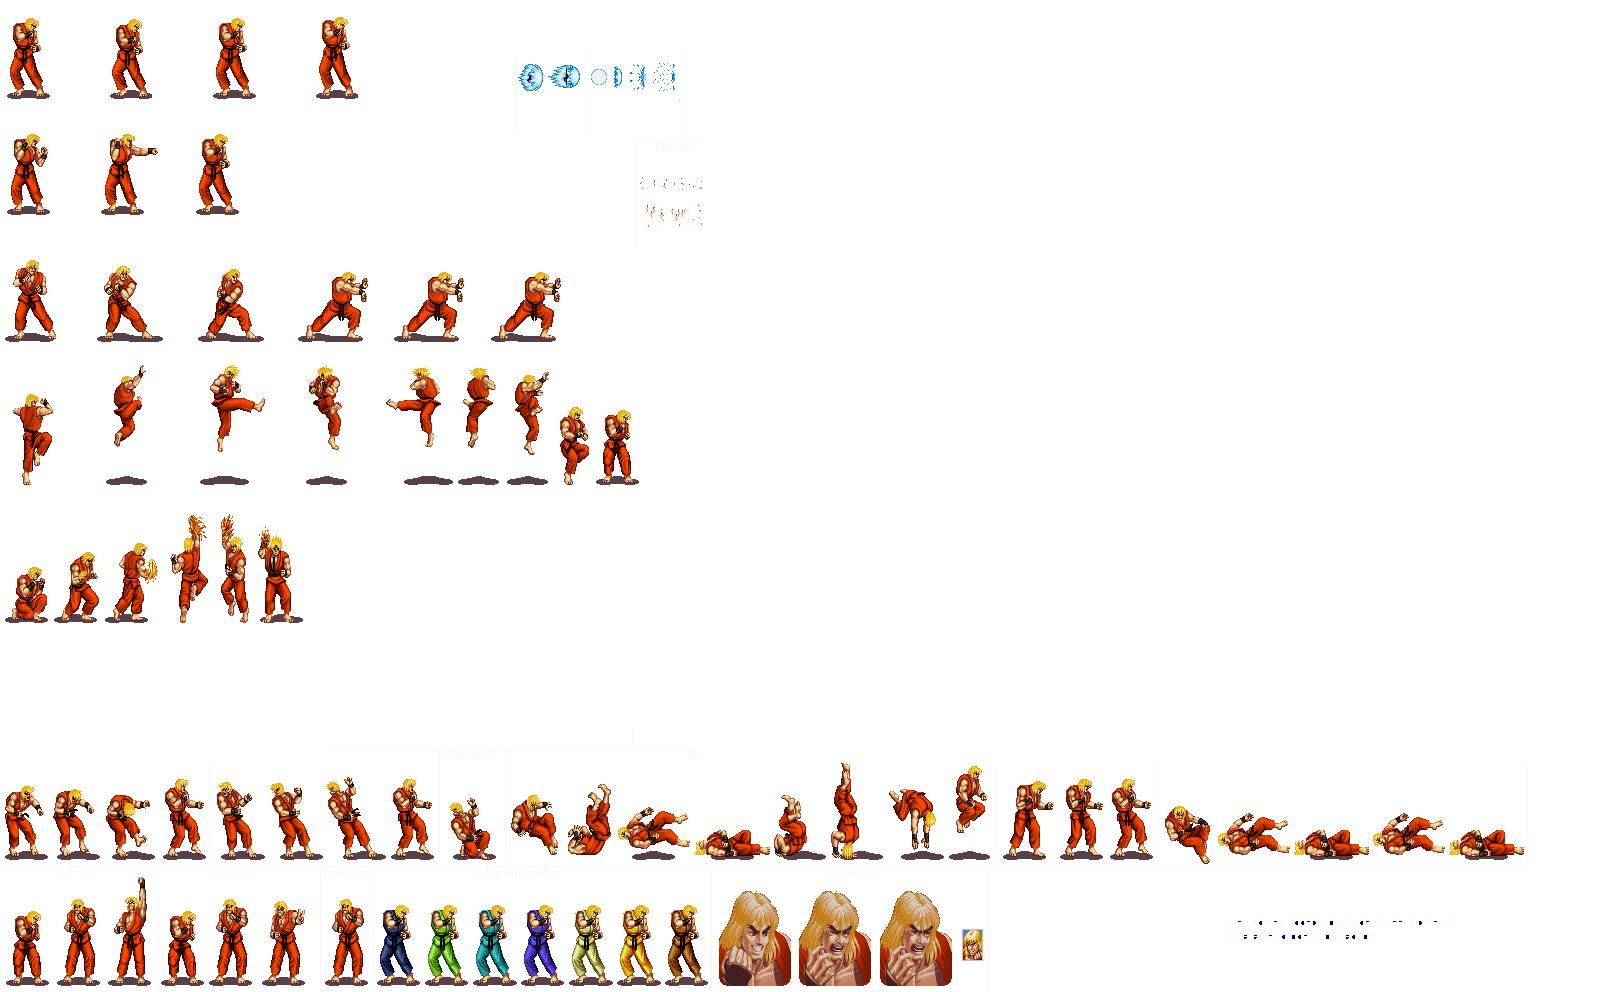
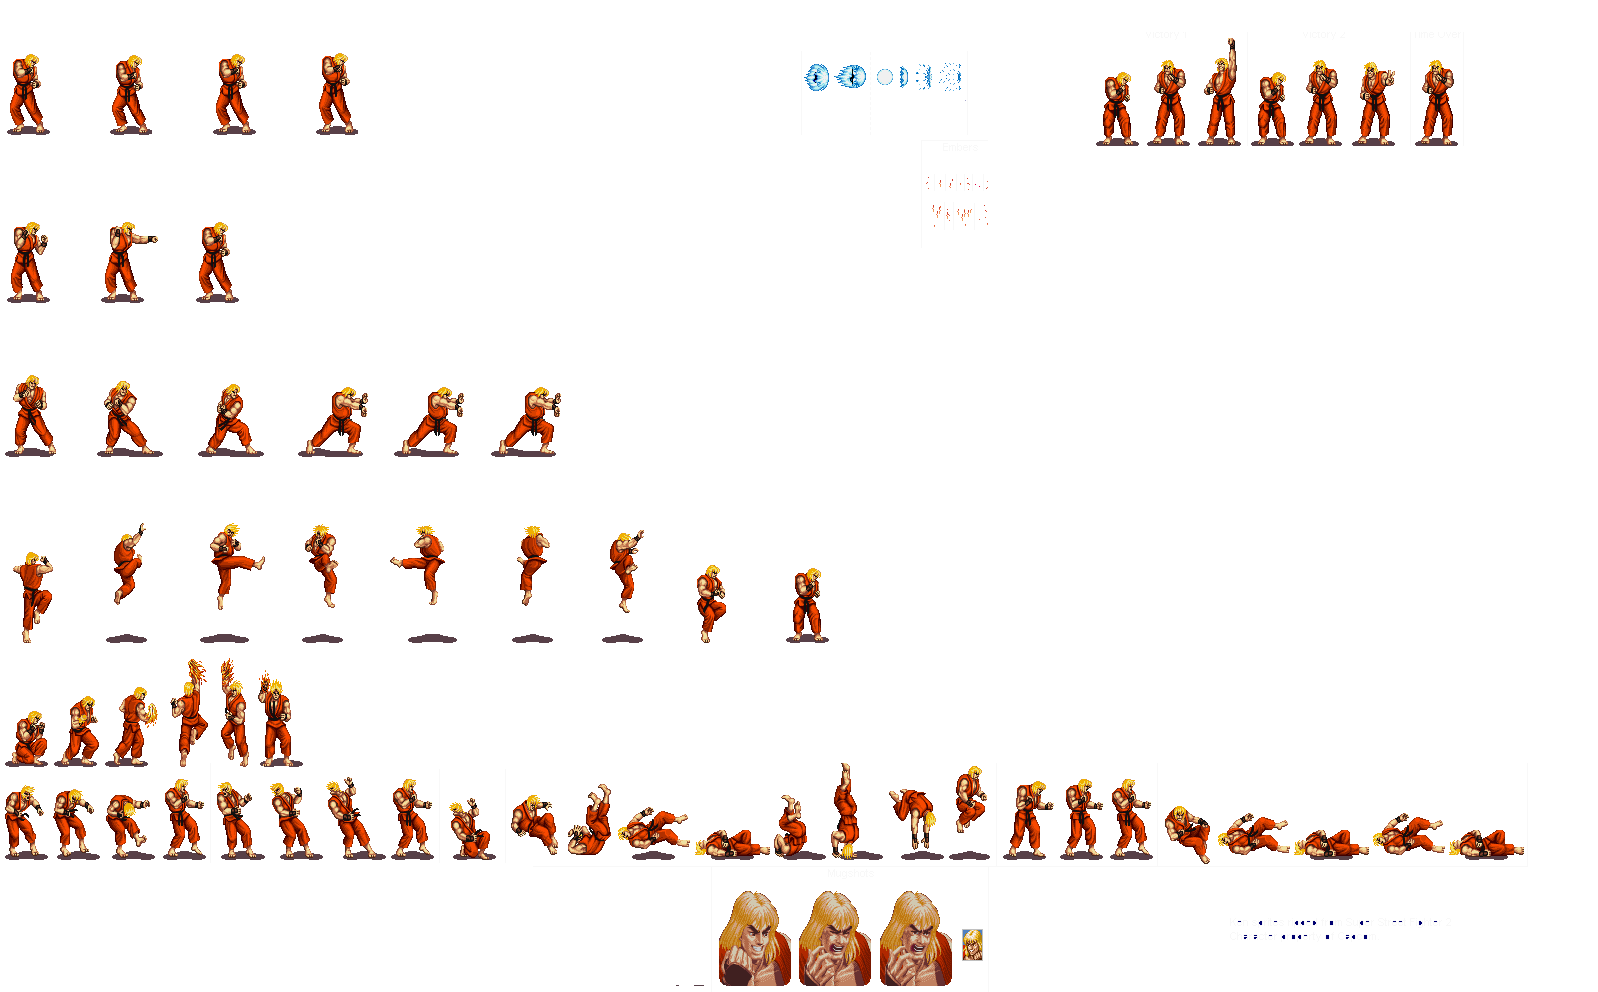
Now with a working senpukyaku!!!!!

diff --git a/assets/css/style.css b/assets/css/style.css
@@ -125,7 +125,8 @@ img {
 
 .ken { 
     width:95px; 
-    height:100px;
+    height:155px;
+    margin-top: -65px;
     background-image:url('../images/ken.png'); 
 }
 
@@ -133,22 +134,30 @@ img {
     animation: idle steps(4) 0.45s infinite; 
 }
 @keyframes idle {
-    from { background-position: 0px 0px; }
-    to { background-position: -412px 0px; }
+    from { background-position: 0px 20px; }
+    to { background-position: -412px 20px; }
 }
 
 .punch { 
     animation: punch steps(3) 0.35s infinite; 
 }
 @keyframes punch {
-    from { background-position: 0px -116px; }
-    to { background-position: -282px -116px; }
+    from { background-position: 0px -148px; }
+    to { background-position: -282px -148px; }
 }
 
 .hadoken { 
     animation: hadoken steps(6) 0.55s infinite; 
 }
 @keyframes hadoken {
-    from { background-position: 0px -243px; }
-    to { background-position: -582px -243px; }
+    from { background-position: 0px -303px; }
+    to { background-position: -582px -303px; }
+}
+
+.senpukyaku { 
+    animation: senpukyaku steps(9) 1.0s infinite; 
+}
+@keyframes senpukyaku {
+    from { background-position: 0px -500px; }
+    to { background-position: -882px -500px; }
 }

diff --git a/assets/javascript/game.js b/assets/javascript/game.js
@@ -137,6 +137,13 @@ $(document).ready(function() {
         }, 430);
     });
 
+    $('#pad3').click(function(e) {
+        $('.ken').addClass('senpukyaku');
+        setTimeout(function() { 
+            $('.ken').removeClass('senpukyaku'); 
+        }, 900);
+    });
+
 
     // var $fireball = $('<div/>', {class:'fireball'});
     // $fireball.appendTo($('.ken'));
